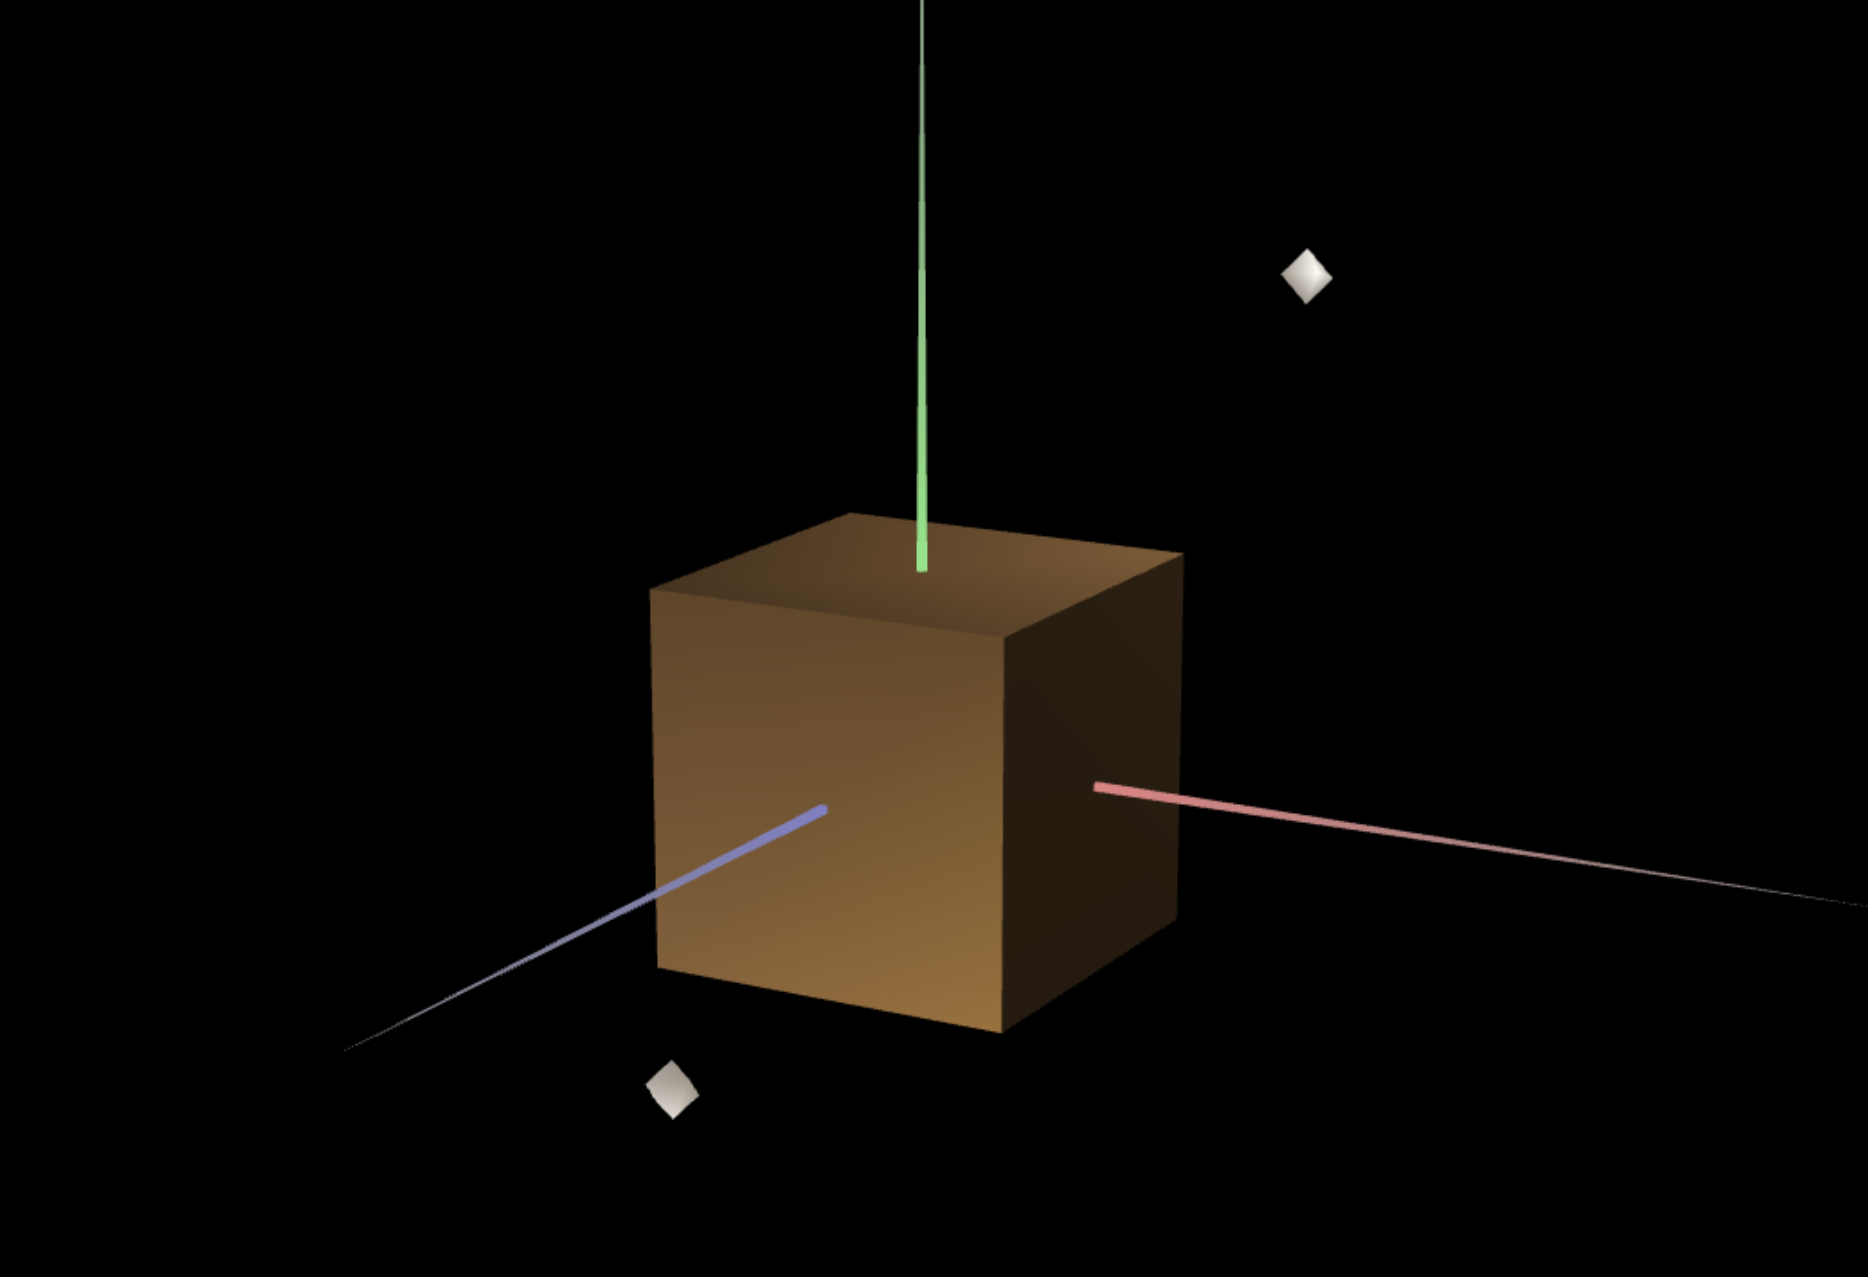
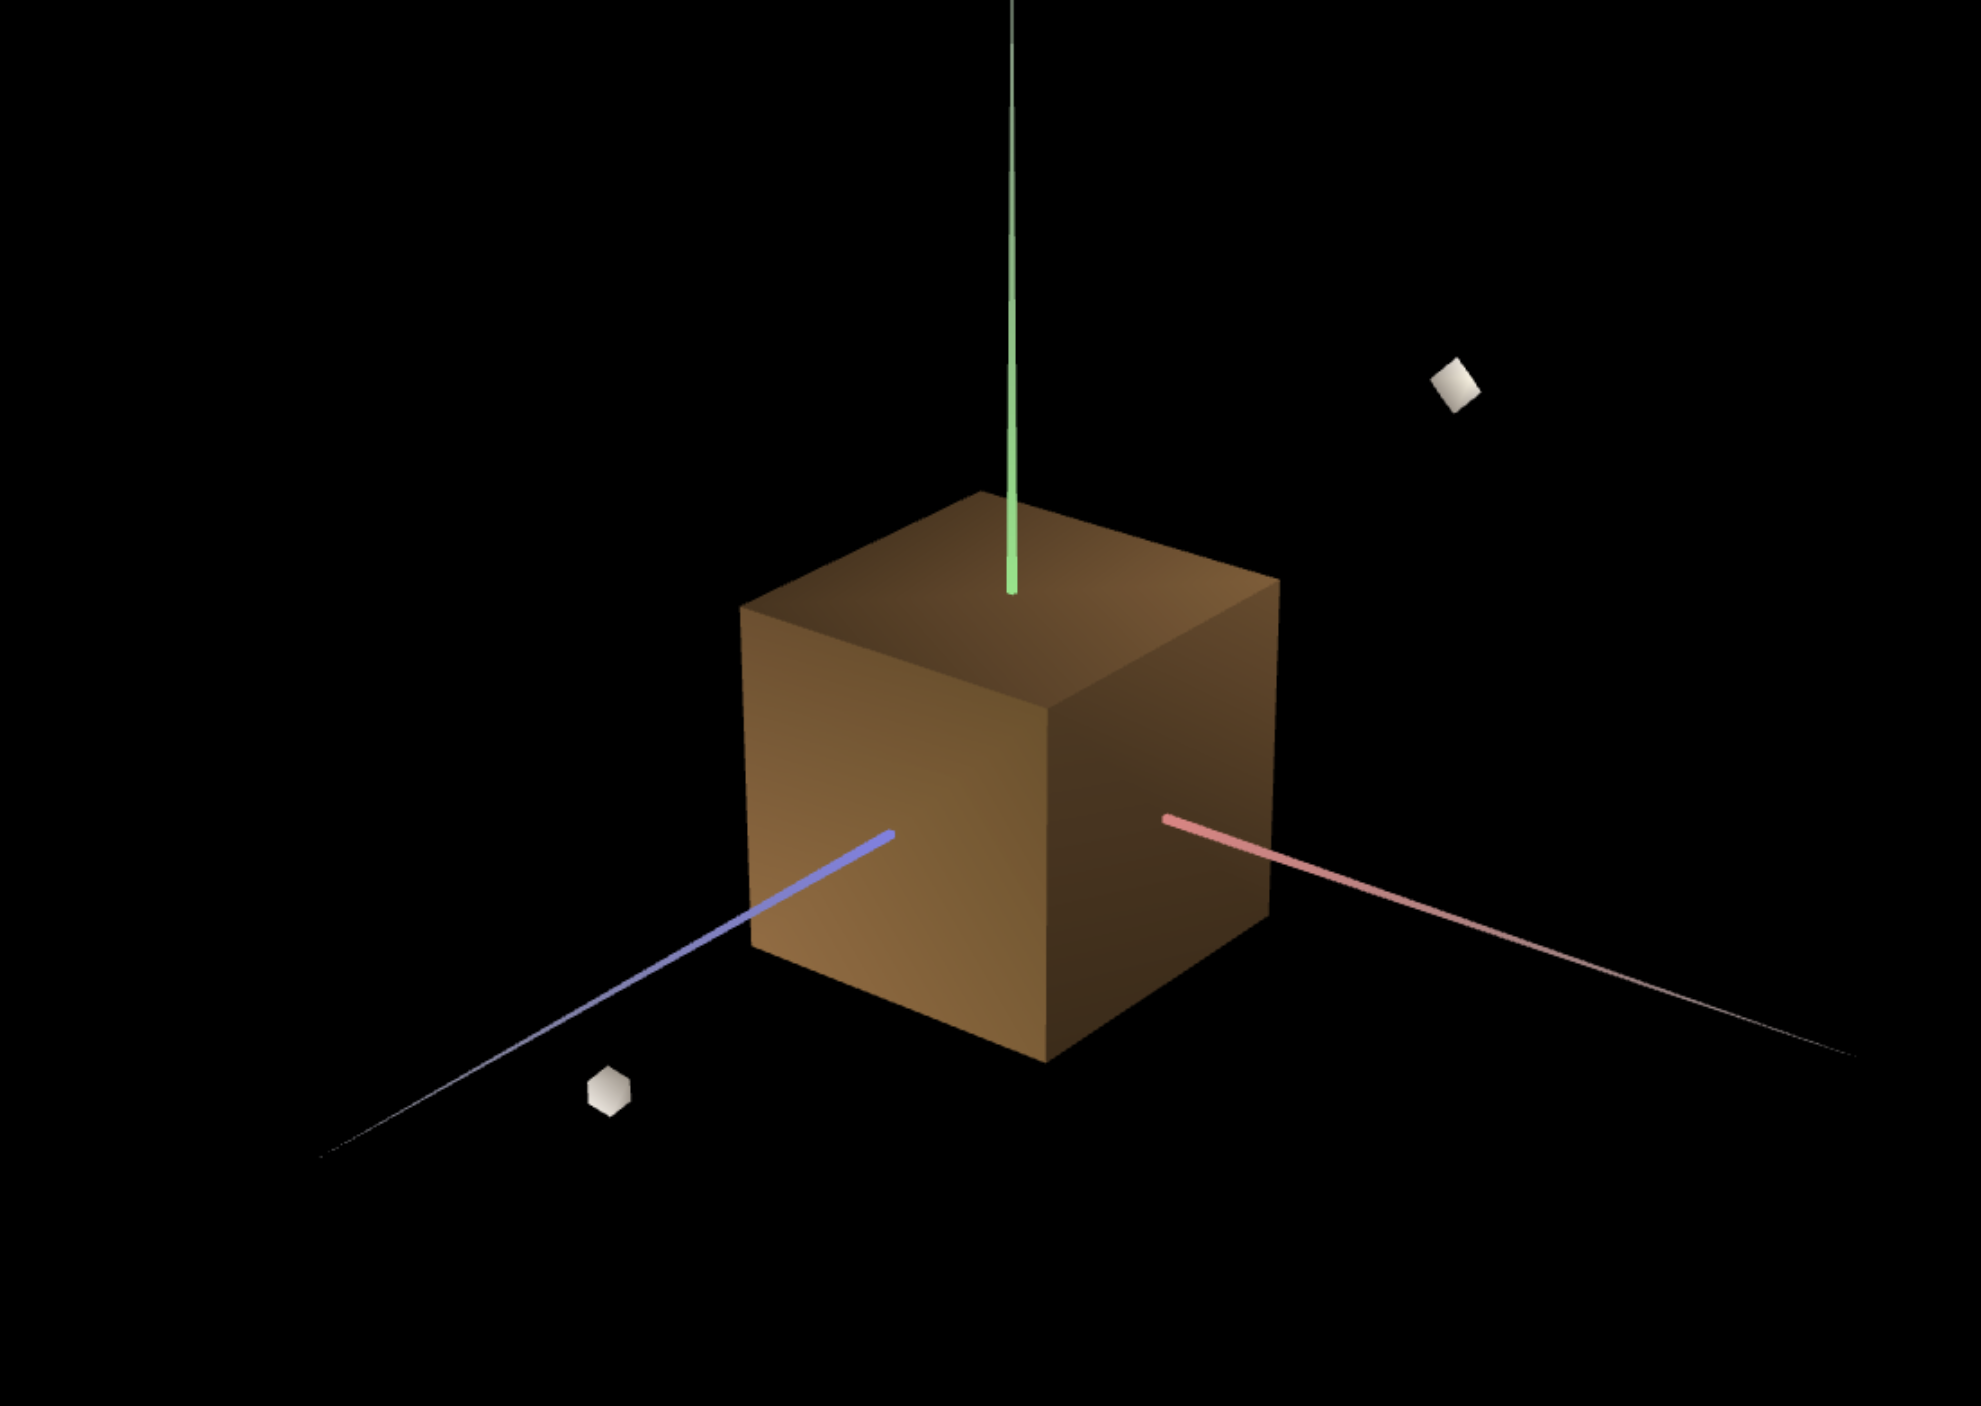
Wood Unit Cube update

diff --git a/tp3/MyScene.js b/tp3/MyScene.js
@@ -130,10 +130,10 @@ export class MyScene extends CGFscene {
 
         // Wood Material
         this.material4 = new CGFappearance(this);
-        this.material4.setAmbient(0.3, 0.2, 0.1, 1.0);  // Darker, more neutral brown
-        this.material4.setDiffuse(0.5, 0.35, 0.2, 1.0);  // Lighter brown with a hint of red
-        this.material4.setSpecular(0.2, 0.15, 0.1, 1.0); // Less shiny, more matte
-        this.material4.setShininess(10.0);  // A higher shininess value for a smoother surface
+        this.material4.setAmbient(0.3, 0.2, 0.1, 1.0);
+        this.material4.setDiffuse(0.5, 0.35, 0.2, 1.0);
+        this.material4.setSpecular(0.05, 0.05, 0.05, 1.0);
+        this.material4.setShininess(5.0);
         
 
         // Custom material (can be changed in the interface)
